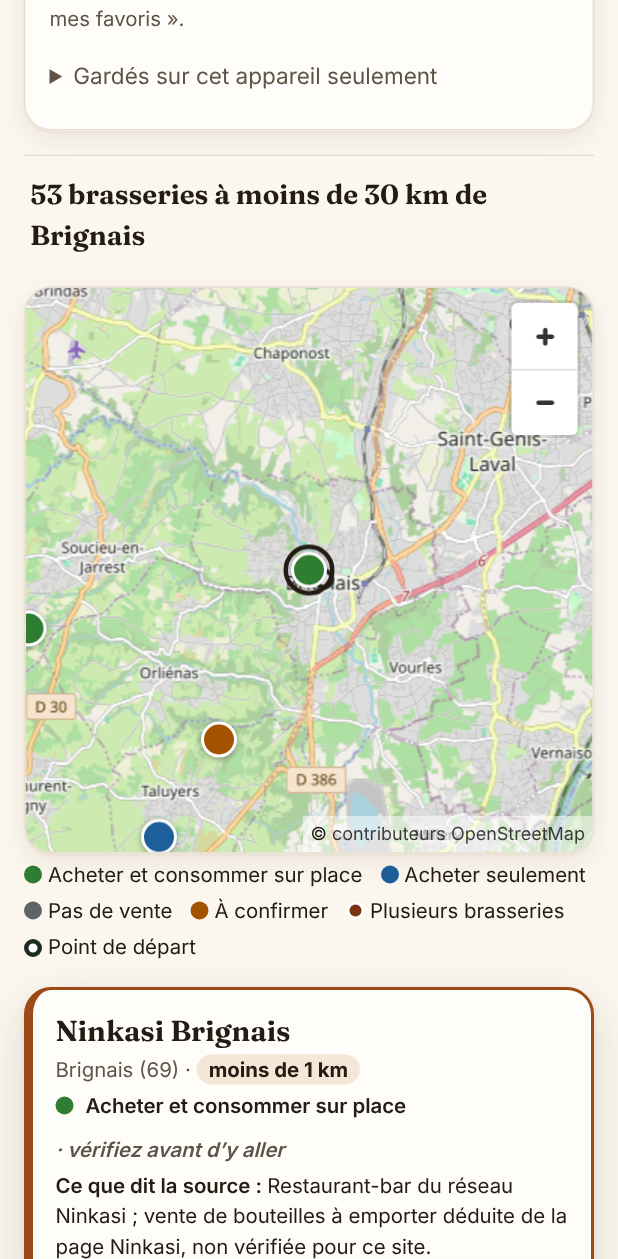
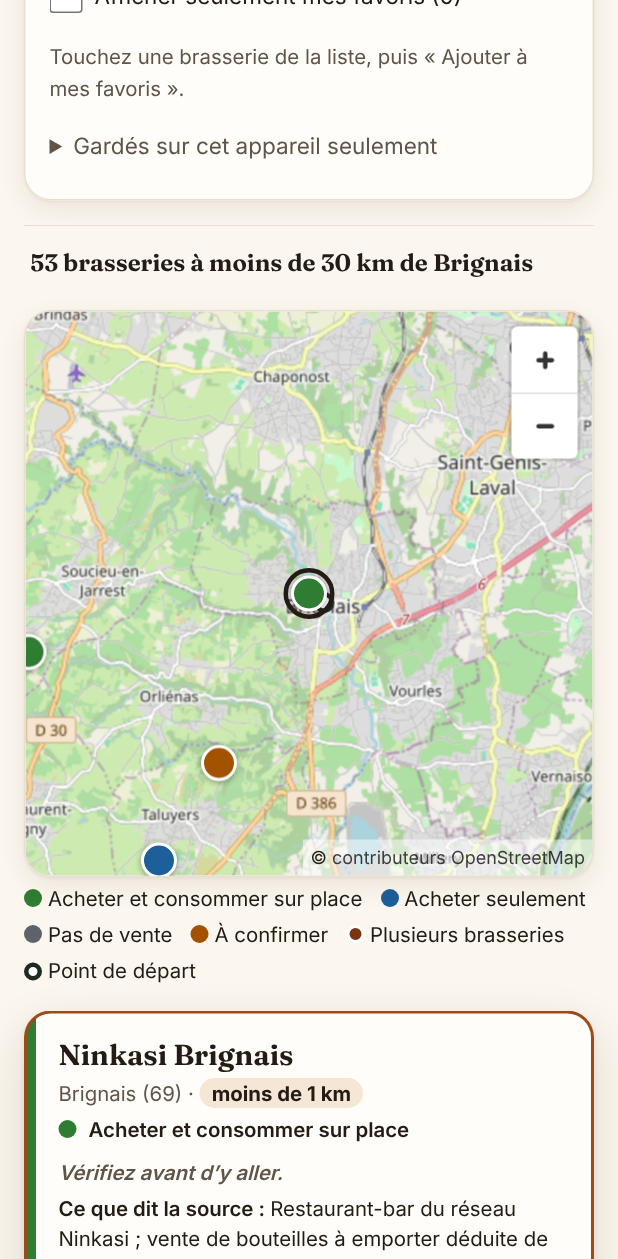
S28 : revues UI/UX et adverse appliquées
- focus blanc sur l'en-tête ; bord des champs à 3:1 ; survol plus sombre ;
  texte d'exemple à l'encre douce
- bandes de catégorie franches, « À confirmer » rayée (distincte du cuivre)
- légendes flottantes ; puces en grille ; aide d'installation repliée
- compte toujours collé, plus fin sur un écran bas (régression de la
  première correction, test 360 × 640)
- docs : DESIGN.md, S28, BACKLOG, état de reprise ; captures et og.jpg

Claude-Session: https://claude.ai/code/session_01Y2eS8reQRufNkkcU32cx1E

diff --git a/src/index.css b/src/index.css
@@ -745,3 +745,86 @@ input[type='range'], input[type='checkbox'] { accent-color: var(--cuivre); }
   .entete { margin: 0; border-radius: 0 0 var(--rayon-lg) var(--rayon-lg); padding: var(--espace-8); }
   .entete h1 { font-size: 2.5rem; }
 }
+
+/* ── Revue UI/UX S28 : corrections mesurées ───────────────────────────── */
+
+/* 1. Le focus sur l'en-tête cuivré : blanc (6,17:1 au moins), le cuivre vif
+   y faisait 1,51:1. */
+.entete :focus-visible { outline-color: #fff; }
+/* Le texte centré dans ses 44 px : l'anneau de focus ne mord plus le sous-titre. */
+.installer-repli summary { min-height: 44px; display: list-item; padding: 12px 0; margin-top: var(--espace-2); cursor: pointer; font-size: var(--texte-secondaire); line-height: 20px; }
+.entete .installer-repli .champ-aide { color: #fff; margin-top: var(--espace-2); }
+
+/* 3. Le compte, plus discret. Sur un écran bas, il reste collé — décollé, il
+   sortait de l'écran pendant qu'on réglait la distance (revue adverse S28 :
+   921 px pour 640) — mais plus fin et sur une ligne. */
+.compte { font-size: 1rem; background: color-mix(in srgb, var(--papier) 97%, transparent); }
+@media (max-height: 700px) {
+  .compte { font-size: 0.875rem; padding: var(--espace-2) var(--espace-2); line-height: 1.3; }
+}
+/* Le texte d'exemple des champs : 3,75:1 en sombre avec la couleur du
+   navigateur (revue adverse S28) ; l'encre douce, 7:1 et plus. */
+.champ input::placeholder { color: var(--encre-douce); opacity: 1; }
+
+/* 4. La légende reste dans son cadre, même sur deux lignes (« Point de
+   départ : Saint-… ») : flottante, sur toute la largeur. */
+.depart legend, .categories legend { float: left; width: 100%; padding: 0; margin: 0 0 var(--espace-4); }
+.depart legend + *, .categories legend + * { clear: both; }
+
+/* 5. Bord des champs à 3:1 au moins (WCAG 1.4.11) : 3,93:1 et 4,30:1
+   (calcul de la revue). Le focus, le même anneau que partout. */
+:root { --bord-champ: #8c7d6b; }
+@media (prefers-color-scheme: dark) { :root { --bord-champ: #8a7d6d; } }
+.champ input[type='search'], .champ select { border-color: var(--bord-champ); }
+.champ input[type='search']:focus, .champ select:focus { outline: 3px solid var(--cuivre-vif); outline-offset: 2px; border-color: var(--cuivre); }
+
+/* 6 et 7. La bande de catégorie : franche (le bord de 6 px s'effilait dans
+   l'arrondi), et rayée pour « À confirmer », dont l'orange se confondait
+   avec le cuivre de la marque (1,11:1) : un second indice que la couleur. */
+.ligne {
+  border-left-width: 1px;
+  background-image: linear-gradient(var(--bande, transparent), var(--bande, transparent));
+  background-size: 6px 100%;
+  background-repeat: no-repeat;
+  padding-left: calc(var(--espace-7) + 6px);
+}
+.ligne.cat-0 {
+  border-left-color: var(--gris-vert-clair);
+  background-image: repeating-linear-gradient(180deg, var(--cat-0) 0 6px, transparent 6px 10px);
+}
+.ligne.cat-1 { --bande: var(--cat-1); border-left-color: var(--gris-vert-clair); }
+.ligne.cat-2 { --bande: var(--cat-2); border-left-color: var(--gris-vert-clair); }
+.ligne.cat-3 { --bande: var(--cat-3); border-left-color: var(--gris-vert-clair); }
+.ligne[aria-expanded='true'] {
+  border-left: 2px solid var(--cuivre);
+  padding-left: calc(var(--espace-7) + 5px);
+  /* 8. Pas de trait entre la ligne ouverte et sa fiche. */
+  border-bottom-color: transparent;
+}
+.fiche { border-left-width: 2px; margin-top: -1px; }
+.badge-verifier { display: block; }
+
+/* 9. Survol du bouton principal : un cuivre plus sombre (le cuivre vif
+   faisait 4,09:1 sous le blanc), et seulement là où le survol existe. */
+.depart-actions .bouton-principal:hover { background: var(--cuivre); border-color: var(--cuivre); }
+@media (hover: hover) {
+  .depart-actions .bouton-principal:hover { background: #7a3410; border-color: #7a3410; }
+}
+@media (hover: hover) and (prefers-color-scheme: dark) {
+  .depart-actions .bouton-principal:hover { background: var(--cuivre-vif); border-color: var(--cuivre-vif); }
+}
+
+/* 10. Les puces en grille régulière de deux colonnes. */
+.categories { display: grid; grid-template-columns: minmax(0, 1fr) minmax(0, 1fr); }
+.categories .case { min-width: 0; overflow-wrap: anywhere; line-height: 1.25; }
+.categories legend, .categories .case:last-child { grid-column: 1 / -1; }
+.categories .case { padding-right: var(--espace-4); }
+
+/* Sur ordinateur, l'en-tête en une bande serrée : la première brasserie
+   doit rester dans le premier écran (test « ordinateur », 1280 × 800). */
+@media (min-width: 900px) {
+  .entete { padding: var(--espace-7) var(--espace-8); display: flex; flex-wrap: wrap; align-items: center; gap: var(--espace-2) var(--espace-8); }
+  .entete h1 { font-size: 2rem; }
+  .entete .sous-titre { margin: 0; flex: 1; min-width: 16rem; }
+  .categories { grid-template-columns: repeat(2, minmax(0, 1fr)); }
+}

diff --git a/src/Installer.tsx b/src/Installer.tsx
@@ -66,11 +66,16 @@ export function Installer() {
       </div>
     )
   }
+  // Replié derrière une phrase : déplié, il prenait deux lignes de l'en-tête
+  // à chaque visite (revue UI/UX S28).
   return (
-    <p className="champ-aide installer" data-testid="installer-geste">
-      {plateformeDe(navigator.userAgent) === 'ios'
-        ? 'Pour l’installer sur iPhone : bouton Partager du navigateur (Safari, ou Chrome et Firefox récents), puis « Sur l’écran d’accueil ».'
-        : 'Pour l’installer : menu du navigateur, puis « Installer l’application » ou « Ajouter à l’écran d’accueil ».'}
-    </p>
+    <details className="installer-repli">
+      <summary>Installer l’application</summary>
+      <p className="champ-aide installer" data-testid="installer-geste">
+        {plateformeDe(navigator.userAgent) === 'ios'
+          ? 'Pour l’installer sur iPhone : bouton Partager du navigateur (Safari, ou Chrome et Firefox récents), puis « Sur l’écran d’accueil ».'
+          : 'Pour l’installer : menu du navigateur, puis « Installer l’application » ou « Ajouter à l’écran d’accueil ».'}
+      </p>
+    </details>
   )
 }

diff --git a/tests/e2e/uiux.spec.ts b/tests/e2e/uiux.spec.ts
@@ -8,7 +8,9 @@ test.beforeEach(async ({ page }) => {
   await expect(page.getByTestId('liste').getByRole('listitem').first()).toBeVisible()
 })
 
-test('le compte se lit depuis le curseur de distance, sans défiler', async ({ page }) => {
+for (const ecran of [undefined, { width: 360, height: 640 }]) {
+test(`le compte se lit depuis le curseur de distance, sans défiler${ecran ? ' (360 × 640, revue adverse S28)' : ''}`, async ({ page }) => {
+  if (ecran) await page.setViewportSize(ecran)
   await page.getByTestId('rayon').scrollIntoViewIfNeeded()
   await page.getByTestId('rayon').fill('15')
   // Peint à l'écran, pas seulement présent (CLAUDE.md §1bis).
@@ -26,6 +28,7 @@ test('le compte se lit depuis le curseur de distance, sans défiler', async ({ p
     .toBe(true)
   await expect(page.getByTestId('compte')).toContainText('15 km')
 })
+}
 
 test('« Refermer la fiche » referme, et rend la main à sa ligne', async ({ page }) => {
   const ligne = page.locator('button.ligne').first()

diff --git a/src/Liste.tsx b/src/Liste.tsx
@@ -288,7 +288,7 @@ export function Liste({
                 {brasserie.conf === 'faible' && (
                   <span className="badge-verifier" data-testid="badge-verifier">
                     {' '}
-                    · vérifiez avant d’y aller
+                    Vérifiez avant d’y aller.
                   </span>
                 )}
                 {/* Décision #35 : une fiche fermée ne paraît que cherchée par son nom. */}

diff --git a/docs/SPRINTS.md b/docs/SPRINTS.md
@@ -1579,3 +1579,45 @@ rouges avant correction, sauf m2 et m5 (voir 2).
 4. **Reporté en S28** (refonte visuelle) :
    - m4 : sur téléphone, la liste commence à 2,3 écrans ;
    - l'image de partage (`og:image`).
+
+## S28 — Design system, revue UI/UX, marketing *(17/10)*
+
+1. **Pourquoi.** Cédric : « revue UI/UX, correction et changement de design
+   system », « la rendre sexy », « comment marketer l'appli ».
+2. **Fait.**
+   - **Design system v2 « cuivre et houblon »** (`docs/DESIGN.md`) :
+     polices hébergées (Fraunces, Inter), jetons clair et sombre, en-tête
+     cuivré avec logo, cartes, puces, barre de compte, fiche animée.
+   - **Image de partage** `public/og.jpg`, fabriquée par
+     `outils/image-partage.ts`, avec `og:image`.
+   - **Captures** refaites.
+   - **Marketing et apprentissage** : `docs/MARKETING.md`, `docs/APPRENDRE.md`.
+3. **Revue UI/UX** (designer, Marie, Inès ; 68 k) : dix trouvailles,
+   corrigées.
+   - Focus de l'en-tête à 1,51:1 : il est désormais blanc.
+   - Bord des champs à 1,30:1 : `--bord-champ`, à 3:1 au moins.
+   - « À confirmer » confondu avec le cuivre : bande rayée.
+   - Bande de catégorie effilée dans l'arrondi : désormais franche.
+   - Survol du bouton principal à 4,09:1 : cuivre plus sombre.
+   - Légende hors de son cadre sur deux lignes : désormais flottante.
+   - Compte qui couvrait 17 % d'un petit écran : il ne colle plus sous
+     700 px de hauteur.
+   - Puces irrégulières : grille de deux colonnes.
+   - Aide d'installation repliée ; trait entre la ligne et sa fiche retiré.
+   - La règle de 200 % de texte, retestée : colonnes et puces rétrécissent.
+4. **Revue adverse** (62 k) :
+   - **régression** : le compte décollé sous 700 px de haut sortait de
+     l'écran pendant qu'on réglait la distance (921 px pour 640). Il reste
+     collé, plus fin ; un test à 360 × 640 couvre ce cas ;
+   - l'anneau de focus du repli « Installer l'application » mordait sur le
+     sous-titre : le texte est recentré dans ses 44 px ;
+   - le texte d'exemple des champs était à 3,75:1 en sombre : il prend
+     l'encre douce ;
+   - le reste a été mesuré sans défaut : polices précachées, CSP tenue, pas
+     de décalage de mise en page au chargement des polices, Lighthouse
+     mobile 96–97 en local, contre 85–98 sur la base, sans écart
+     attribuable. Non vérifié : Firefox et Safari.
+5. **Proposé, pas fait** (BACKLOG) :
+   - mettre la liste avant la carte sur téléphone, avec les filtres repliés ;
+   - les trois idées « wow » de la revue : mousse animée dans l'en-tête,
+     image de la tournée à partager, fiche en feuille basculante.

diff --git a/CLAUDE.md b/CLAUDE.md
@@ -167,6 +167,7 @@ logique ou de sécurité ; pas pour une curation déjà relue par Cédric.
 - **S1 à S6 terminés le 15/10** (S4–S6 : code livré, données de contact, bières et horaires encore absentes) (page publiée : https://opaland.github.io/Brewery-map/).
 - **Plan v2 validé le 15/10** : 20 sprints de plus (S3 → S22, devenu S23 avec l'ajout de S21 « Partout en France » le 16/10), budget ≈ 4,6 M,
   revue code + revue métier corrigées dans chaque sprint (`docs/SPRINTS.md`).
+- **Plan v3 (16–17/10), demandé par Cédric** : S24 finitions ; S25 toute la France (couche OpenStreetMap à part de `data/`, 994 brasseries) ; décisions tranchées (`docs/DECISIONS.md`, `curation/RECOMMANDATIONS.md`) ; audit applicatif (`docs/AUDIT.md`) et S26 correctif ; S27 idées de la veille (`docs/VEILLE-CONCURRENCE.md` : département, tournée, partage d'une fiche, statut fermée) ; S28 design system v2 (`docs/DESIGN.md`), image de partage, `docs/MARKETING.md`, `docs/APPRENDRE.md` ; 40 issues créées (#27–#66).
 - **S7 à S23 terminés (15–16/10), puis revue UI/UX globale (16/10, PR #24 : compte collant sans masquer le focus, filtres en colonnes sur ordinateur, zoom 44 px, « Refermer la fiche »)** ; S23 : README, captures (`outils/captures.ts`), brouillon LinkedIn (`docs/LINKEDIN.md`), licence des données à décider par Cédric ; S22 : revue globale corrigée (repli du service worker sur 404, bandeau de nouvelle version, zone vide guidée) ; S21 : communes de France cherchées (fin de la liste déroulante), localisation refaite, bouton « Installer » ; S18 : accessibilité mesurée (`tests/e2e/accessibilite.spec.ts`) ; S19 : « Y aller » (destination seule) et « ouvert maintenant » ; S20 : carte chargée à l'approche (Lighthouse mobile 64 → 100), frontière d'erreur ; les 101 « À confirmer » ont tous été revus une fois ; la veille (S15) attend « arme la veille » de Cédric ; six lots attendent la décision de Cédric (`curation/s11-exemples-s4.md`, `curation/s12-lot-1.md`, `curation/s13-lot-2.md`, `curation/s14-decouverte-resume.md`, `curation/s16-lot-3.md`, `curation/s17-lot-4.md`) ; enchaînement S9 → S22 demandé par Cédric (« enchaîne les sprints avec revue + revue globale »).
 - **En attente de Cédric** : accord sur 5 numéros d'exemple (SPRINTS.md, S4) et permission d'écrire dans `data/` (refusée par le contrôle de la session le 15/10).
 - Décision de Cédric (15/10) : **autonome dans les PR** — une PR verte et

diff --git a/docs/DESIGN.md b/docs/DESIGN.md
@@ -1,0 +1,53 @@
+# Design system — « cuivre et houblon » (v2, S28)
+
+Demande de Cédric du 16/10 : « changement de design system », « la rendre
+sexy ». Ce fichier dit les choix. Le code fait foi : `src/index.css`,
+section « Design system v2 ».
+
+## Intention
+
+Un bistrot cuivré plutôt qu'un formulaire. Chaleureux sans être criard, et
+lisible à vélo, en plein soleil. La marque est le cuivre ; les quatre
+catégories de vente gardent leurs couleurs et leurs contrastes, mesurés
+depuis S18.
+
+## Jetons
+
+| Jeton | Clair | Sombre | Usage |
+|---|---|---|---|
+| `--papier` | `#fbf6ee` | `#15110d` | fond de page |
+| `--blanc-carte` | `#fffdf9` | `#1f1a15` | cartes, champs |
+| `--encre` | `#241c14` | `#f3ece2` | texte |
+| `--encre-douce` | `#5f5447` | `#c4b8a7` | texte secondaire (6,86:1 et 9,63:1) |
+| `--cuivre` | `#9c4a17` | `#e38a4c` | marque, bouton principal, sélection |
+| `--cuivre-vif` | `#c0652a` | `#f0a066` | anneau de focus |
+| `--cuivre-pale` | `#f6e6d6` | `#3a2617` | fonds de sélection, distance |
+| `--bord-champ` | `#8c7d6b` | `#8a7d6d` | bord des champs (3:1 au moins) |
+| `--rayon-md` / `--rayon-lg` | 12 px / 18 px | | champs / cartes |
+| `--ombre`, `--ombre-forte` | | | cartes au repos / ouvertes |
+
+- **En-tête** : dégradé `#7a3410` → `#9c4a17`, texte blanc (9,03:1 et 6,17:1),
+  focus blanc.
+- **Typographie** : Fraunces pour les titres, les noms de brasseries et le
+  compte ; Inter pour le reste. Les deux sont hébergées par l'application
+  (OFL), sous-ensemble latin seulement, soit environ 85 Ko.
+
+## Composants
+
+- **Bouton principal** (« Autour de moi », la tournée) : pilule pleine
+  cuivre. **Secondaire** : pilule à bord.
+- **Ligne de liste** : carte arrondie, bande de 6 px à la couleur de sa
+  catégorie. « À confirmer » est rayé : son orange se confond avec le cuivre
+  (1,11:1), il faut donc un second indice que la couleur (WCAG 1.4.1).
+- **Fiche** : continue la ligne ouverte, bord cuivre, apparition de 180 ms,
+  sans animation si l'on demande moins de mouvement.
+- **Catégories** : des puces en grille de deux colonnes ; ce sont toujours de
+  vraies cases à cocher.
+- **Compte** : une barre collée au bas de l'écran, qui ne colle plus sous
+  700 px de hauteur.
+
+## Ce qui ne change pas
+
+Les cibles de 44 px, les contrastes mesurés par
+`tests/e2e/accessibilite.spec.ts`, l'ordre de lecture, et aucune ressource
+tierce (CSP).

diff --git a/BACKLOG.md b/BACKLOG.md
@@ -212,6 +212,16 @@ chacun demande une décision ou une vérification de source.
   - les nombres du menu des départements ignorent les catégories cochées et
     le type de bière.
 
+- S28 — proposé par la revue UI/UX, pas fait :
+  - sur téléphone, la liste avant la carte dans le document, et les filtres
+    (catégories, favoris) repliés : la première ligne est encore à 2,1
+    écrans ;
+  - mousse animée (SVG) dans l'en-tête, arrêtée si l'on demande moins de
+    mouvement ;
+  - « Partager ma tournée » : une image composée sur un canvas, dans le
+    téléphone ;
+  - fiche en feuille basculante (« bottom sheet ») sur téléphone.
+
 ## Lots de curation non faits
 
 *(rempli en S5)*
